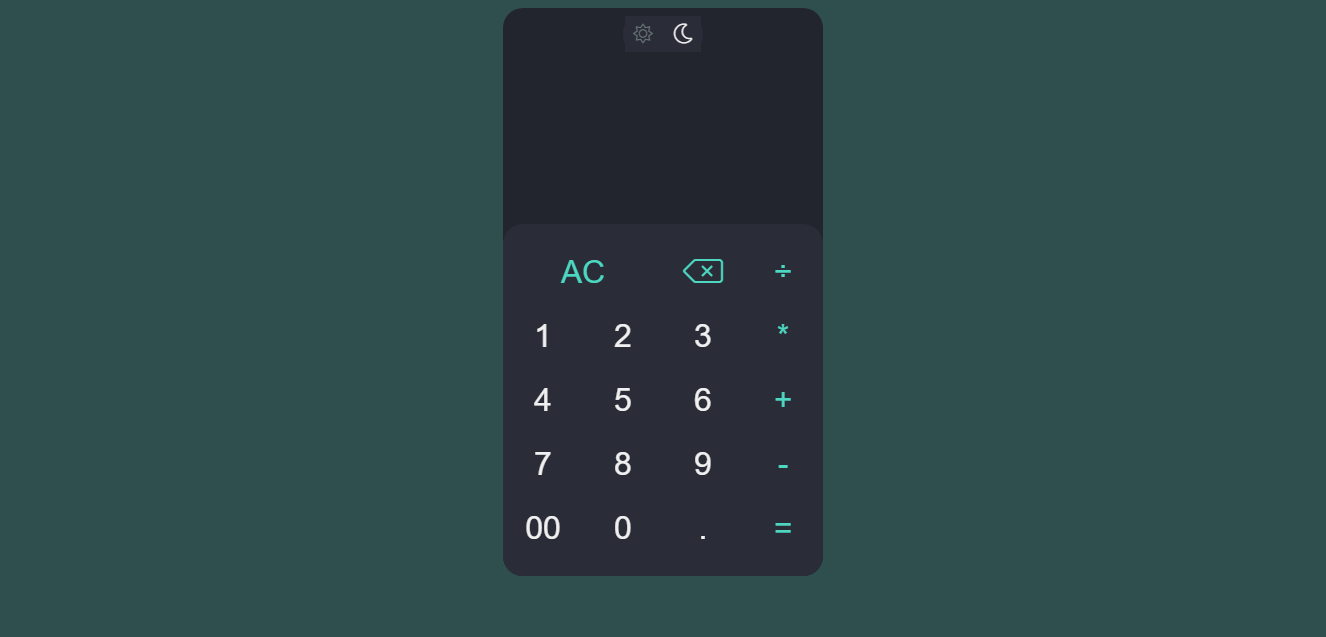
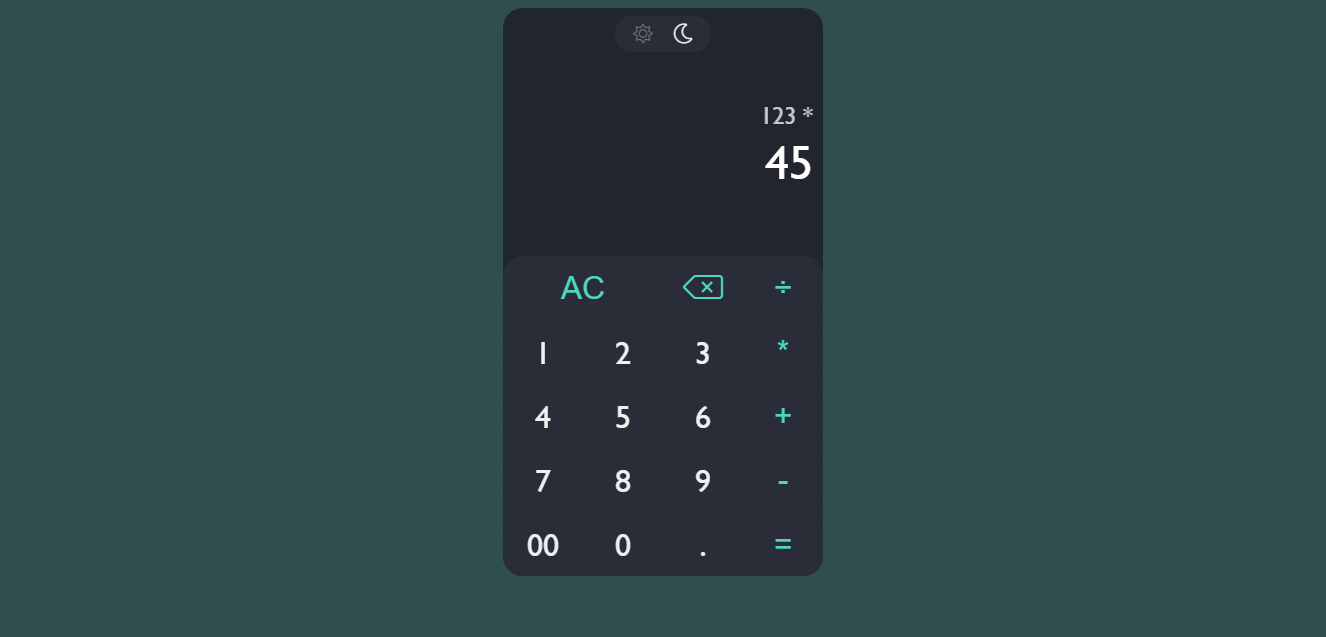
add light mode
Menambahkan light mode dengan switch menggunakan javascript

diff --git a/script.js b/script.js
@@ -23,7 +23,8 @@ class Calculator {
 
     appendNumber(number){
         if(number === '.' && this.currentOperand.includes('.')) return
-        this.currentOperand = this.currentOperand.toString() + number
+        if(this.currentOperand.length < 16)
+            this.currentOperand = this.currentOperand.toString() + number
     }
 
     operatorFunction(operator){
@@ -134,3 +135,91 @@ equalsButton.addEventListener('click', () => {
     calculator.compute()
     calculator.updateDisplay()
 })
+
+const sun = document.querySelector('.fa-sun')
+const moon = document.querySelector('.fa-moon')
+var darkMode = true
+updateMode()
+
+sun.addEventListener('click', () => {
+    if(darkMode){
+        darkMode = false
+        sun.classList.remove('inactive')
+        moon.classList.add('inactive')
+        updateMode()
+    }
+
+})
+
+moon.addEventListener('click', () => {
+    if(!darkMode){
+        darkMode = true
+        moon.classList.remove('inactive')
+        sun.classList.add('inactive')
+        updateMode()
+    }
+})
+
+function updateMode(){
+    const body = document.querySelector('body')
+    const container = document.querySelector('.container')
+    const switchArea = document.querySelector('.switch')
+    const switch_i = document.querySelector('.switch i')
+    const button = document.querySelector('.button')
+    const button_button = document.querySelectorAll('.button > button')
+    const notNum = document.querySelectorAll('[notNum]')
+    const number = document.querySelectorAll('[number]')
+    const prev = document.querySelector('.output .previous-operand')
+    const cur = document.querySelector('.output .current')
+
+    if(darkMode) {
+        body.style.backgroundColor = 'darkslategray'
+        container.style.backgroundColor = 'var(--primary)'
+        switchArea.style.backgroundColor = 'var(--secondary)'
+        switch_i.style.color = 'var(--granny-smith)'
+        sun.style.color = 'var(--granny-smith)'
+        moon.style.color = 'var(--white-text)'
+        button.style.backgroundColor = 'var(--secondary)'
+        
+        button_button.forEach(btn => {
+            btn.style.backgroundColor = 'var(--secondary)'
+            btn.style.border = '1px solid var(--secondary)'
+            btn.classList.add('darkMode')
+            btn.classList.remove('lightMode')
+        })
+        
+        notNum.forEach(btn => {
+            btn.style.color = 'var(--turquoise)'
+        })
+        number.forEach(btn => {
+            btn.style.color = 'var(--white-text)'
+        })
+        prev.style.color = 'rgba(255, 255, 255, .75)'
+        cur.style.color = 'rgba(255, 255, 255, 1)'
+    }
+    else {
+        body.style.backgroundColor = 'var(--granny-smith)'
+        container.style.backgroundColor = 'white'
+        switchArea.style.backgroundColor = '#f5f5f5'
+        switch_i.style.color = 'var(--granny-smith)'
+        sun.style.color = 'var(--primary)'
+        moon.style.color = 'var(--granny-smith)'
+        button.style.backgroundColor = '#f5f5f5'
+
+        button_button.forEach(btn => {
+            btn.style.backgroundColor = '#f5f5f5'
+            btn.style.border = '1px solid #f5f5f5'
+            btn.classList.remove('darkMode')
+            btn.classList.add('lightMode')
+        })
+        notNum.forEach(btn => {
+            btn.style.color = 'var(--turquoise)'
+        })
+        number.forEach(btn => {
+            btn.style.color = 'var(--primary)'
+        })
+
+        prev.style.color = 'var(--granny-smith)'
+        cur.style.color = 'var(--primary)'
+    }
+}

diff --git a/index.html b/index.html
@@ -13,32 +13,32 @@
     <div class="container">
         <div class="switch">
             <i class="fal fa-sun inactive"></i>
-            <i class="fal fa-moon dark-mode"></i>
+            <i class="fal fa-moon"></i>
         </div>
         <div class="output">
             <div previous class="previous-operand"></div>
             <div current class="current"></div>
         </div>
         <div class="button">
-            <button all-clear class="span-two">AC</button>
-            <button delete><i class="fal fa-backspace"></i></button>
-            <button operator>÷</button>
+            <button notNum all-clear class="span-two">AC</button>
+            <button notNum delete><i class="fal fa-backspace"></i></button>
+            <button notNum operator>÷</button>
             <button number>1</button>
             <button number>2</button>
             <button number>3</button>
-            <button operator>*</button>
+            <button notNum operator>*</button>
             <button number>4</button>
             <button number>5</button>
             <button number>6</button>
-            <button operator>+</button>
+            <button notNum operator>+</button>
             <button number>7</button>
             <button number>8</button>
             <button number>9</button>
-            <button operator>-</button>
+            <button notNum operator>-</button>
             <button number>00</button>
             <button number>0</button>
             <button number>.</button>
-            <button equals>=</button>
+            <button notNum equals>=</button>
         </div>
     </div>
 </body>

diff --git a/css/style.css b/css/style.css
@@ -6,7 +6,7 @@
     --turquoise: #4dd7c0;
 }
 
-body, body::before, body::after {
+body{
     box-sizing: border-box;
     font-weight: normal;
     background-color: darkslategray;
@@ -41,7 +41,7 @@ body, body::before, body::after {
     cursor: pointer;
 }
 
-.switch i.dark-mode {
+.switch i.fa-moon {
     color: var(--white-text);
 }
 
@@ -51,7 +51,7 @@ body, body::before, body::after {
     bottom: 0;
     border-radius: 1.25rem;
 
-    padding: 1rem 0;
+    /* padding: 1rem 0; */
     display: grid;
     justify-content: center;
     align-content: center;
@@ -65,16 +65,18 @@ body, body::before, body::after {
     cursor: pointer;
     border: 1px solid var(--secondary);
     outline: none;
+    border-radius: 1.25rem;
 }
 
-.button > button:hover {
-    background-color: #404652;
+.darkMode:hover {
+    background-color: #404652 !important;
 }
 
-[all-clear],
-[delete],
-[operator],
-[equals] {
+.lightMode:hover {
+    background-color: rgb(206, 206, 206) !important;
+}
+
+[notNum] {
     color: var(--turquoise);
 }
 
@@ -89,8 +91,7 @@ body, body::before, body::after {
 }
 
 .output {
-    background-color: inherit;
-    margin-top: 2rem;
+    margin-top: 2.5rem;
     display: flex;
     align-items: flex-end;
     justify-content: space-around;
@@ -105,15 +106,11 @@ body, body::before, body::after {
 .output .previous-operand {
     color: rgba(255, 255, 255, .75);
     font-size: 1.5rem;
+    height: 2rem;
 }
 
 .output .current {
     color: rgba(255, 255, 255, 1);
     font-size: 3rem;
-}
-
-.fal,
-.previous-operand,
-.current {
-    background-color: inherit;
+    height: 7rem;
 }
